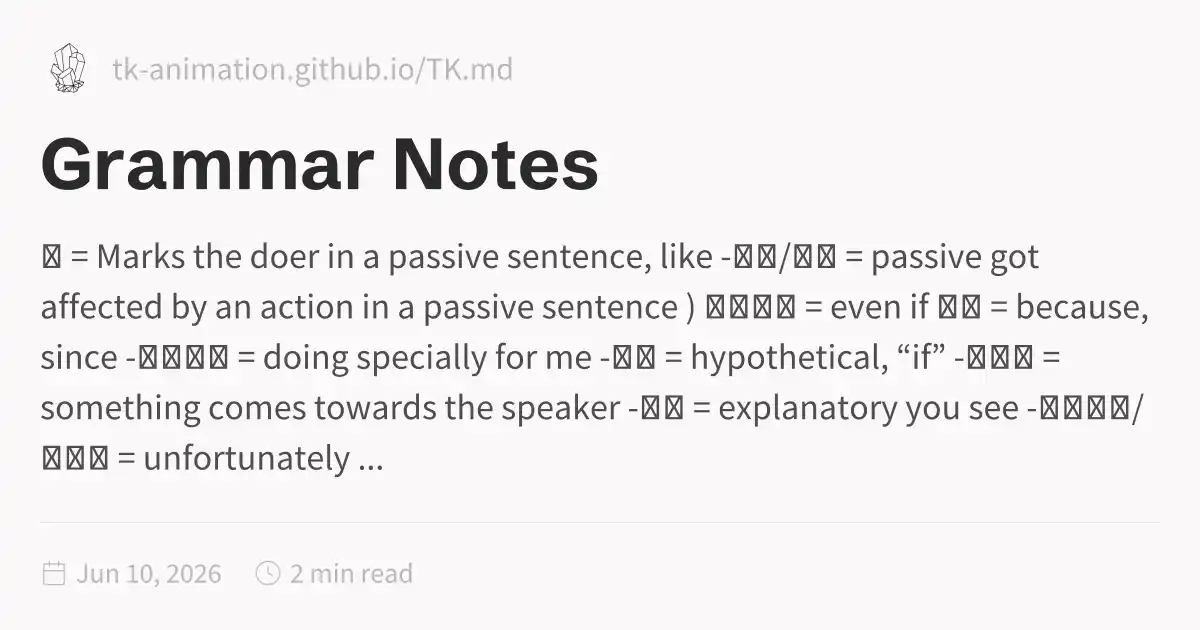
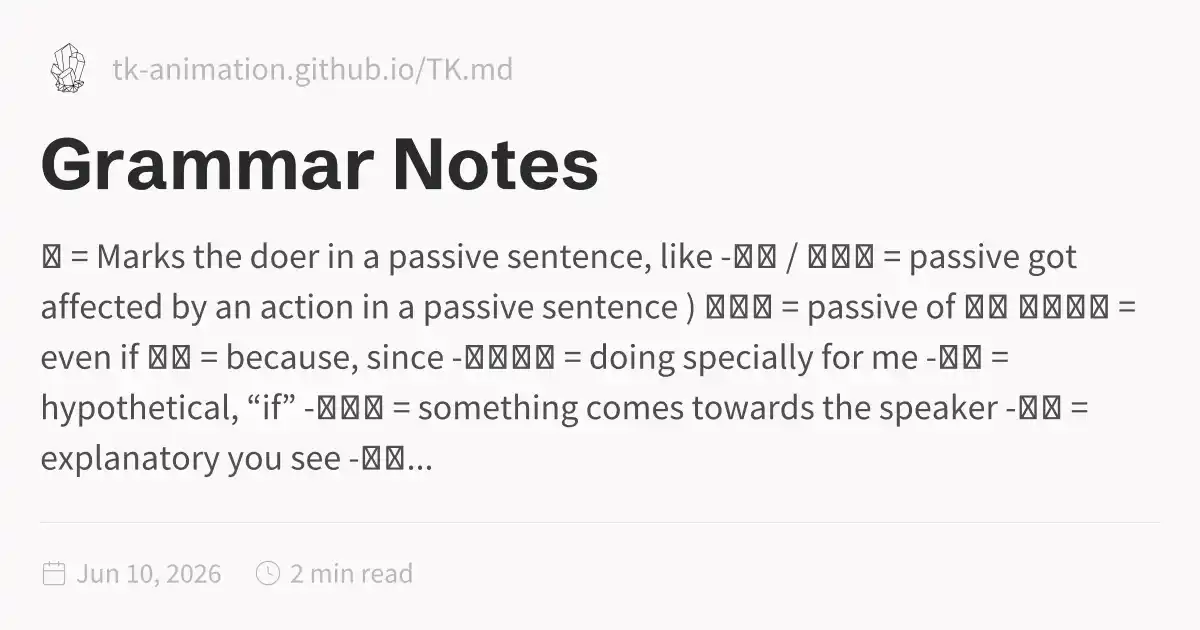
Deploy static Quartz site

Changed region(s): [[0.0308, 0.5429, 0.9558, 0.754], [0.6475, 0.3619, 0.9558, 0.5127]]

diff --git a/personal-notes/grammar-notes.html b/personal-notes/grammar-notes.html
@@ -1,7 +1,8 @@
 <!DOCTYPE html>
-<html lang="en" dir="ltr"><head><title>Grammar Notes</title><meta charset="utf-8"/><link rel="preload" href="../index-47d9ba67.css" as="style"/><link rel="preload" href="../prescript-2bfc6315.js" as="script"/><link rel="preconnect" href="https://fonts.googleapis.com"/><link rel="preconnect" href="https://fonts.gstatic.com"/><link rel="stylesheet" href="https://fonts.googleapis.com/css2?family=Schibsted Grotesk:wght@400;700&amp;family=Source Sans Pro:ital,wght@0,400;0,600;1,400;1,600&amp;family=IBM Plex Mono:wght@400;600&amp;display=swap"/><link rel="preconnect" href="https://cdnjs.cloudflare.com" crossorigin="anonymous"/><meta name="viewport" content="width=device-width, initial-scale=1.0"/><meta name="og:site_name" content="TK.md"/><meta property="og:title" content="Grammar Notes"/><meta property="og:type" content="website"/><meta name="twitter:card" content="summary_large_image"/><meta name="twitter:title" content="Grammar Notes"/><meta name="twitter:description" content="に = Marks the doer in a passive sentence, like -れた/れる = passive got affected by an action in a passive sentence ) としても = even if ので = because, since -てくれる = doing specially for me -たら = hypothetical, “if” -てくる = something comes towards the speaker -んだ = explanatory you see -てしまう/ちゃう = unfortunately ..."/><meta property="og:description" content="に = Marks the doer in a passive sentence, like -れた/れる = passive got affected by an action in a passive sentence ) としても = even if ので = because, since -てくれる = doing specially for me -たら = hypothetical, “if” -てくる = something comes towards the speaker -んだ = explanatory you see -てしまう/ちゃう = unfortunately ..."/><meta property="og:image:alt" content="に = Marks the doer in a passive sentence, like -れた/れる = passive got affected by an action in a passive sentence ) としても = even if ので = because, since -てくれる = doing specially for me -たら = hypothetical, “if” -てくる = something comes towards the speaker -んだ = explanatory you see -てしまう/ちゃう = unfortunately ..."/><meta property="twitter:domain" content="tk-animation.github.io/TK.md"/><meta property="og:url" content="https://tk-animation.github.io/TK.md/personal-notes/grammar-notes"/><meta property="twitter:url" content="https://tk-animation.github.io/TK.md/personal-notes/grammar-notes"/><link rel="icon" href="../static/icon.png"/><meta name="description" content="に = Marks the doer in a passive sentence, like -れた/れる = passive got affected by an action in a passive sentence ) としても = even if ので = because, since -てくれる = doing specially for me -たら = hypothetical, “if” -てくる = something comes towards the speaker -んだ = explanatory you see -てしまう/ちゃう = unfortunately ..."/><meta name="generator" content="Quartz"/><link href="../index-47d9ba67.css" rel="stylesheet" type="text/css" data-persist="true"/><link href="../component-735924e0.css" rel="stylesheet" type="text/css" data-persist="true"/><link href="../component-589c1cea.css" rel="stylesheet" type="text/css" data-persist="true"/><link href="../component-bbc3f7c0.css" rel="stylesheet" type="text/css" data-persist="true"/><link href="../component-2911f5d1.css" rel="stylesheet" type="text/css" data-persist="true"/><link href="../component-e427079e.css" rel="stylesheet" type="text/css" data-persist="true"/><link href="../component-53b25b2b.css" rel="stylesheet" type="text/css" data-persist="true"/><link href="../component-c93c6a44.css" rel="stylesheet" type="text/css" data-persist="true"/><link href="../component-8a06014f.css" rel="stylesheet" type="text/css" data-persist="true"/><link href="../component-77d6a441.css" rel="stylesheet" type="text/css" data-persist="true"/><link href="../component-6ee21cee.css" rel="stylesheet" type="text/css" data-persist="true"/><link href="../component-1ea6ad18.css" rel="stylesheet" type="text/css" data-persist="true"/><link href="../component-34bdfded.css" rel="stylesheet" type="text/css" data-persist="true"/><link href="../component-788c9ca3.css" rel="stylesheet" type="text/css" data-persist="true"/><link href="../component-642859cd.css" rel="stylesheet" type="text/css" data-persist="true"/><link href="../component-4abc06bd.css" rel="stylesheet" type="text/css" data-persist="true"/><link href="../component-274a3dfe.css" rel="stylesheet" type="text/css" data-persist="true"/><link href="../component-94cb6c84.css" rel="stylesheet" type="text/css" data-persist="true"/><link href="../component-58d5ff56.css" rel="stylesheet" type="text/css" data-persist="true"/><link href="../component-9f9b2774.css" rel="stylesheet" type="text/css" data-persist="true"/><link href="../component-7262b5a7.css" rel="stylesheet" type="text/css" data-persist="true"/><link href="../static/resource-style-54175ada.css" rel="stylesheet" type="text/css" data-persist="true"/><link href="../static/resource-style-a5c806d2.css" rel="stylesheet" type="text/css" data-persist="true"/><link href="../static/resource-style-6bd36952.css" rel="stylesheet" type="text/css" data-persist="true"/><link href="../static/resource-style-9857b007.css" rel="stylesheet" type="text/css" data-persist="true"/><link href="../static/resource-style-d3a1a224.css" rel="stylesheet" type="text/css" data-persist="true"/><link href="https://cdn.jsdelivr.net/npm/katex@0.16.11/dist/katex.min.css" rel="stylesheet" type="text/css" data-persist="true"/><script src="../prescript-2bfc6315.js" type="application/javascript" data-persist="true"></script><script type="application/javascript" data-persist="true">const fetchData = fetch("../static/contentIndex.json").then(data => data.json())</script><link rel="preconnect" href="https://fonts.googleapis.com"/><link rel="preconnect" href="https://fonts.gstatic.com" crossorigin="anonymous"/><link rel="stylesheet" href="https://fonts.googleapis.com/css2?family=Schibsted%20Grotesk%3Awght%40400%3B700&amp;family=Source%20Sans%20Pro%3Aital%2Cwght%400%2C400%3B0%2C600%3B1%2C400%3B1%2C600&amp;family=IBM%20Plex%20Mono%3Awght%40400%3B600&amp;display=swap"/><meta property="og:image:width" content="1200"/><meta property="og:image:height" content="630"/><meta property="og:image" content="https://tk-animation.github.io/TK.md/personal-notes/grammar-notes-og-image.webp"/><meta property="og:image:url" content="https://tk-animation.github.io/TK.md/personal-notes/grammar-notes-og-image.webp"/><meta name="twitter:image" content="https://tk-animation.github.io/TK.md/personal-notes/grammar-notes-og-image.webp"/><meta property="og:image:type" content="image/webp"/></head><body data-slug="personal-notes/grammar-notes" data-basepath="/TK.md"><div id="quartz-root" class="page" data-frame="default"><div id="quartz-body"><div class="left sidebar"><h2 class="page-title"><a href="..">TK.md</a></h2><div class="mobile-only"><div class="spacer"></div></div><div class="flex-component" style="flex-direction: row; flex-wrap: nowrap; gap: 0.5rem;"><div style="flex-grow: 1; flex-shrink: 1; flex-basis: auto; order: 0; align-self: center; justify-self: center;"><div class="search"><button class="search-button" aria-label="Search" aria-expanded="false"><svg role="img" xmlns="http://www.w3.org/2000/svg" viewBox="0 0 19.9 19.7"><title>Search</title><g class="search-path" fill="none"><path stroke-linecap="square" d="M18.5 18.3l-5.4-5.4"></path><circle cx="8" cy="8" r="7"></circle></g></svg><p>Search</p></button><div class="search-container"><div class="search-space"><input autocomplete="off" class="search-bar" name="search" type="text" aria-label="Search for something..." placeholder="Search for something..."/><div class="search-layout" data-preview="true" data-field-priority="[&quot;title&quot;,&quot;content&quot;,&quot;tags&quot;]"></div></div></div></div></div><div style="flex-grow: 0; flex-shrink: 1; flex-basis: auto; order: 0; align-self: center; justify-self: center;"><button class="darkmode" aria-label="Dark mode"><svg xmlns="http://www.w3.org/2000/svg" xmlns:xlink="http://www.w3.org/1999/xlink" version="1.1" class="dayIcon" x="0px" y="0px" viewBox="0 0 35 35" style="enable-background:new 0 0 35 35" xml:space="preserve" aria-label="Dark mode"><title>Dark mode</title><path d="M6,17.5C6,16.672,5.328,16,4.5,16h-3C0.672,16,0,16.672,0,17.5    S0.672,19,1.5,19h3C5.328,19,6,18.328,6,17.5z M7.5,26c-0.414,0-0.789,0.168-1.061,0.439l-2,2C4.168,28.711,4,29.086,4,29.5    C4,30.328,4.671,31,5.5,31c0.414,0,0.789-0.168,1.06-0.44l2-2C8.832,28.289,9,27.914,9,27.5C9,26.672,8.329,26,7.5,26z M17.5,6    C18.329,6,19,5.328,19,4.5v-3C19,0.672,18.329,0,17.5,0S16,0.672,16,1.5v3C16,5.328,16.671,6,17.5,6z M27.5,9    c0.414,0,0.789-0.168,1.06-0.439l2-2C30.832,6.289,31,5.914,31,5.5C31,4.672,30.329,4,29.5,4c-0.414,0-0.789,0.168-1.061,0.44    l-2,2C26.168,6.711,26,7.086,26,7.5C26,8.328,26.671,9,27.5,9z M6.439,8.561C6.711,8.832,7.086,9,7.5,9C8.328,9,9,8.328,9,7.5    c0-0.414-0.168-0.789-0.439-1.061l-2-2C6.289,4.168,5.914,4,5.5,4C4.672,4,4,4.672,4,5.5c0,0.414,0.168,0.789,0.439,1.06    L6.439,8.561z M33.5,16h-3c-0.828,0-1.5,0.672-1.5,1.5s0.672,1.5,1.5,1.5h3c0.828,0,1.5-0.672,1.5-1.5S34.328,16,33.5,16z     M28.561,26.439C28.289,26.168,27.914,26,27.5,26c-0.828,0-1.5,0.672-1.5,1.5c0,0.414,0.168,0.789,0.439,1.06l2,2    C28.711,30.832,29.086,31,29.5,31c0.828,0,1.5-0.672,1.5-1.5c0-0.414-0.168-0.789-0.439-1.061L28.561,26.439z M17.5,29    c-0.829,0-1.5,0.672-1.5,1.5v3c0,0.828,0.671,1.5,1.5,1.5s1.5-0.672,1.5-1.5v-3C19,29.672,18.329,29,17.5,29z M17.5,7    C11.71,7,7,11.71,7,17.5S11.71,28,17.5,28S28,23.29,28,17.5S23.29,7,17.5,7z M17.5,25c-4.136,0-7.5-3.364-7.5-7.5    c0-4.136,3.364-7.5,7.5-7.5c4.136,0,7.5,3.364,7.5,7.5C25,21.636,21.636,25,17.5,25z"></path></svg><svg xmlns="http://www.w3.org/2000/svg" xmlns:xlink="http://www.w3.org/1999/xlink" version="1.1" class="nightIcon" x="0px" y="0px" viewBox="0 0 100 100" style="enable-background:new 0 0 100 100" xml:space="preserve" aria-label="Light mode"><title>Light mode</title><path d="M96.76,66.458c-0.853-0.852-2.15-1.064-3.23-0.534c-6.063,2.991-12.858,4.571-19.655,4.571  C62.022,70.495,50.88,65.88,42.5,57.5C29.043,44.043,25.658,23.536,34.076,6.47c0.532-1.08,0.318-2.379-0.534-3.23  c-0.851-0.852-2.15-1.064-3.23-0.534c-4.918,2.427-9.375,5.619-13.246,9.491c-9.447,9.447-14.65,22.008-14.65,35.369  c0,13.36,5.203,25.921,14.65,35.368s22.008,14.65,35.368,14.65c13.361,0,25.921-5.203,35.369-14.65  c3.872-3.871,7.064-8.328,9.491-13.246C97.826,68.608,97.611,67.309,96.76,66.458z"></path></svg></button></div><div style="flex-grow: 0; flex-shrink: 1; flex-basis: auto; order: 0; align-self: center; justify-self: center;"><button class="readermode" aria-label="Reader mode"><svg xmlns="http://www.w3.org/2000/svg" xmlns:xlink="http://www.w3.org/1999/xlink" version="1.1" class="readerIcon" fill="currentColor" stroke="currentColor" stroke-width="0.2" stroke-linecap="round" stroke-linejoin="round" width="64px" height="64px" viewBox="0 0 24 24" aria-label="Reader mode"><title>Reader mode</title><g transform="translate(-1.8, -1.8) scale(1.15, 1.2)"><path d="M8.9891247,2.5 C10.1384702,2.5 11.2209868,2.96705384 12.0049645,3.76669482 C12.7883914,2.96705384 13.8709081,2.5 15.0202536,2.5 L18.7549359,2.5 C19.1691495,2.5 19.5049359,2.83578644 19.5049359,3.25 L19.5046891,4.004 L21.2546891,4.00457396 C21.6343849,4.00457396 21.9481801,4.28672784 21.9978425,4.6528034 L22.0046891,4.75457396 L22.0046891,20.25 C22.0046891,20.6296958 21.7225353,20.943491 21.3564597,20.9931534 L21.2546891,21 L2.75468914,21 C2.37499337,21 2.06119817,20.7178461 2.01153575,20.3517706 L2.00468914,20.25 L2.00468914,4.75457396 C2.00468914,4.37487819 2.28684302,4.061083 2.65291858,4.01142057 L2.75468914,4.00457396 L4.50368914,4.004 L4.50444233,3.25 C4.50444233,2.87030423 4.78659621,2.55650904 5.15267177,2.50684662 L5.25444233,2.5 L8.9891247,2.5 Z M4.50368914,5.504 L3.50468914,5.504 L3.50468914,19.5 L10.9478955,19.4998273 C10.4513189,18.9207296 9.73864328,18.5588115 8.96709342,18.5065584 L8.77307039,18.5 L5.25444233,18.5 C4.87474657,18.5 4.56095137,18.2178461 4.51128895,17.8517706 L4.50444233,17.75 L4.50368914,5.504 Z M19.5049359,17.75 C19.5049359,18.1642136 19.1691495,18.5 18.7549359,18.5 L15.2363079,18.5 C14.3910149,18.5 13.5994408,18.8724714 13.0614828,19.4998273 L20.5046891,19.5 L20.5046891,5.504 L19.5046891,5.504 L19.5049359,17.75 Z M18.0059359,3.999 L15.0202536,4 L14.8259077,4.00692283 C13.9889509,4.06666544 13.2254227,4.50975805 12.7549359,5.212 L12.7549359,17.777 L12.7782651,17.7601316 C13.4923805,17.2719483 14.3447024,17 15.2363079,17 L18.0059359,16.999 L18.0056891,4.798 L18.0033792,4.75457396 L18.0056891,4.71 L18.0059359,3.999 Z M8.9891247,4 L6.00368914,3.999 L6.00599909,4.75457396 L6.00599909,4.75457396 L6.00368914,4.783 L6.00368914,16.999 L8.77307039,17 C9.57551536,17 10.3461406,17.2202781 11.0128313,17.6202194 L11.2536891,17.776 L11.2536891,5.211 C10.8200889,4.56369974 10.1361548,4.13636104 9.37521067,4.02745763 L9.18347055,4.00692283 L8.9891247,4 Z"></path></g></svg></button></div></div><div class="explorer nav-files-container" data-behavior="link" data-collapsed="collapsed" data-savestate="true" data-data-fns="{&quot;order&quot;:[&quot;filter&quot;,&quot;map&quot;,&quot;sort&quot;],&quot;sortFn&quot;:&quot;(a2, b2) => {\r\n    if (!a2.isFolder &amp;&amp; !b2.isFolder || a2.isFolder &amp;&amp; b2.isFolder) {\r\n      return (a2.displayName || \&quot;\&quot;).localeCompare(b2.displayName || \&quot;\&quot;, void 0, {\r\n        numeric: true,\r\n        sensitivity: \&quot;base\&quot;\r\n      });\r\n    }\r\n    if (!a2.isFolder &amp;&amp; b2.isFolder) {\r\n      return 1;\r\n    }\r\n    return -1;\r\n  }&quot;,&quot;filterFn&quot;:&quot;(node) => node.slugSegment !== \&quot;tags\&quot;&quot;,&quot;mapFn&quot;:&quot;(node) => {\r\n    return node;\r\n  }&quot;}"><button type="button" class="explorer-toggle mobile-explorer hide-until-loaded" data-mobile="true" aria-controls="explorer-0" aria-label="Explorer"><svg xmlns="http://www.w3.org/2000/svg" width="24" height="24" viewBox="0 0 24 24" stroke-width="2" stroke-linecap="round" stroke-linejoin="round" class="lucide-menu"><line x1="4" x2="20" y1="12" y2="12"></line><line x1="4" x2="20" y1="6" y2="6"></line><line x1="4" x2="20" y1="18" y2="18"></line></svg></button><button type="button" class="title-button explorer-toggle desktop-explorer" data-mobile="false" aria-expanded="true"><h2>Explorer</h2><svg xmlns="http://www.w3.org/2000/svg" width="14" height="14" viewBox="5 8 14 8" fill="none" stroke="currentColor" stroke-width="2" stroke-linecap="round" stroke-linejoin="round" class="fold"><polyline points="6 9 12 15 18 9"></polyline></svg></button><div id="explorer-0" class="explorer-content" aria-expanded="false" role="group"><ul class="explorer-ul overflow" id="list-0"><li class="overflow-end"></li></ul></div><template id="template-file"><li><a href="#" class="nav-file-title tree-item-self"></a></li></template><template id="template-folder"><li><div class="folder-container nav-folder-title tree-item-self"><svg xmlns="http://www.w3.org/2000/svg" width="12" height="12" viewBox="5 8 14 8" fill="none" stroke="currentColor" stroke-width="2" stroke-linecap="round" stroke-linejoin="round" class="folder-icon nav-folder-collapse-indicator collapse-icon"><polyline points="6 9 12 15 18 9"></polyline></svg><div><button class="folder-button"><span class="folder-title"></span></button></div></div><div class="folder-outer"><ul class="content tree-item-children"></ul></div></li></template></div></div><div class="center"><div class="page-header"><div class="popover-hint"><nav class="breadcrumb-container" aria-label="breadcrumbs"><div class="breadcrumb-element"><a href="../">Home</a><p> ❯ </p></div><div class="breadcrumb-element"><a href="../personal-notes/">Personal Notes</a><p> ❯ </p></div><div class="breadcrumb-element"><a href>Grammar Notes</a></div></nav><h1 class="article-title">Grammar Notes</h1><p show-comma="true" class="content-meta"><time datetime="2026-06-11T02:24:52.000Z">Jun 10, 2026</time><span>2 min read</span></p></div></div><article class="popover-hint"><div class="markdown-preview-view markdown-rendered"><p>に = Marks the doer in a passive sentence, like</p>
-<p>-れた/れる = passive<br/>
-got affected by an action in a passive sentence  )</p>
+<html lang="en" dir="ltr"><head><title>Grammar Notes</title><meta charset="utf-8"/><link rel="preload" href="../index-47d9ba67.css" as="style"/><link rel="preload" href="../prescript-2bfc6315.js" as="script"/><link rel="preconnect" href="https://fonts.googleapis.com"/><link rel="preconnect" href="https://fonts.gstatic.com"/><link rel="stylesheet" href="https://fonts.googleapis.com/css2?family=Schibsted Grotesk:wght@400;700&amp;family=Source Sans Pro:ital,wght@0,400;0,600;1,400;1,600&amp;family=IBM Plex Mono:wght@400;600&amp;display=swap"/><link rel="preconnect" href="https://cdnjs.cloudflare.com" crossorigin="anonymous"/><meta name="viewport" content="width=device-width, initial-scale=1.0"/><meta name="og:site_name" content="TK.md"/><meta property="og:title" content="Grammar Notes"/><meta property="og:type" content="website"/><meta name="twitter:card" content="summary_large_image"/><meta name="twitter:title" content="Grammar Notes"/><meta name="twitter:description" content="に = Marks the doer in a passive sentence, like -れる / られる = passive got affected by an action in a passive sentence ) される = passive of する としても = even if ので = because, since -てくれる = doing specially for me -たら = hypothetical, “if” -てくる = something comes towards the speaker -んだ = explanatory you see -てし..."/><meta property="og:description" content="に = Marks the doer in a passive sentence, like -れる / られる = passive got affected by an action in a passive sentence ) される = passive of する としても = even if ので = because, since -てくれる = doing specially for me -たら = hypothetical, “if” -てくる = something comes towards the speaker -んだ = explanatory you see -てし..."/><meta property="og:image:alt" content="に = Marks the doer in a passive sentence, like -れる / られる = passive got affected by an action in a passive sentence ) される = passive of する としても = even if ので = because, since -てくれる = doing specially for me -たら = hypothetical, “if” -てくる = something comes towards the speaker -んだ = explanatory you see -てし..."/><meta property="twitter:domain" content="tk-animation.github.io/TK.md"/><meta property="og:url" content="https://tk-animation.github.io/TK.md/personal-notes/grammar-notes"/><meta property="twitter:url" content="https://tk-animation.github.io/TK.md/personal-notes/grammar-notes"/><link rel="icon" href="../static/icon.png"/><meta name="description" content="に = Marks the doer in a passive sentence, like -れる / られる = passive got affected by an action in a passive sentence ) される = passive of する としても = even if ので = because, since -てくれる = doing specially for me -たら = hypothetical, “if” -てくる = something comes towards the speaker -んだ = explanatory you see -てし..."/><meta name="generator" content="Quartz"/><link href="../index-47d9ba67.css" rel="stylesheet" type="text/css" data-persist="true"/><link href="../component-735924e0.css" rel="stylesheet" type="text/css" data-persist="true"/><link href="../component-589c1cea.css" rel="stylesheet" type="text/css" data-persist="true"/><link href="../component-bbc3f7c0.css" rel="stylesheet" type="text/css" data-persist="true"/><link href="../component-2911f5d1.css" rel="stylesheet" type="text/css" data-persist="true"/><link href="../component-e427079e.css" rel="stylesheet" type="text/css" data-persist="true"/><link href="../component-53b25b2b.css" rel="stylesheet" type="text/css" data-persist="true"/><link href="../component-c93c6a44.css" rel="stylesheet" type="text/css" data-persist="true"/><link href="../component-8a06014f.css" rel="stylesheet" type="text/css" data-persist="true"/><link href="../component-77d6a441.css" rel="stylesheet" type="text/css" data-persist="true"/><link href="../component-6ee21cee.css" rel="stylesheet" type="text/css" data-persist="true"/><link href="../component-1ea6ad18.css" rel="stylesheet" type="text/css" data-persist="true"/><link href="../component-34bdfded.css" rel="stylesheet" type="text/css" data-persist="true"/><link href="../component-788c9ca3.css" rel="stylesheet" type="text/css" data-persist="true"/><link href="../component-642859cd.css" rel="stylesheet" type="text/css" data-persist="true"/><link href="../component-4abc06bd.css" rel="stylesheet" type="text/css" data-persist="true"/><link href="../component-274a3dfe.css" rel="stylesheet" type="text/css" data-persist="true"/><link href="../component-94cb6c84.css" rel="stylesheet" type="text/css" data-persist="true"/><link href="../component-58d5ff56.css" rel="stylesheet" type="text/css" data-persist="true"/><link href="../component-9f9b2774.css" rel="stylesheet" type="text/css" data-persist="true"/><link href="../component-7262b5a7.css" rel="stylesheet" type="text/css" data-persist="true"/><link href="../static/resource-style-54175ada.css" rel="stylesheet" type="text/css" data-persist="true"/><link href="../static/resource-style-a5c806d2.css" rel="stylesheet" type="text/css" data-persist="true"/><link href="../static/resource-style-6bd36952.css" rel="stylesheet" type="text/css" data-persist="true"/><link href="../static/resource-style-9857b007.css" rel="stylesheet" type="text/css" data-persist="true"/><link href="../static/resource-style-d3a1a224.css" rel="stylesheet" type="text/css" data-persist="true"/><link href="https://cdn.jsdelivr.net/npm/katex@0.16.11/dist/katex.min.css" rel="stylesheet" type="text/css" data-persist="true"/><script src="../prescript-2bfc6315.js" type="application/javascript" data-persist="true"></script><script type="application/javascript" data-persist="true">const fetchData = fetch("../static/contentIndex.json").then(data => data.json())</script><link rel="preconnect" href="https://fonts.googleapis.com"/><link rel="preconnect" href="https://fonts.gstatic.com" crossorigin="anonymous"/><link rel="stylesheet" href="https://fonts.googleapis.com/css2?family=Schibsted%20Grotesk%3Awght%40400%3B700&amp;family=Source%20Sans%20Pro%3Aital%2Cwght%400%2C400%3B0%2C600%3B1%2C400%3B1%2C600&amp;family=IBM%20Plex%20Mono%3Awght%40400%3B600&amp;display=swap"/><meta property="og:image:width" content="1200"/><meta property="og:image:height" content="630"/><meta property="og:image" content="https://tk-animation.github.io/TK.md/personal-notes/grammar-notes-og-image.webp"/><meta property="og:image:url" content="https://tk-animation.github.io/TK.md/personal-notes/grammar-notes-og-image.webp"/><meta name="twitter:image" content="https://tk-animation.github.io/TK.md/personal-notes/grammar-notes-og-image.webp"/><meta property="og:image:type" content="image/webp"/></head><body data-slug="personal-notes/grammar-notes" data-basepath="/TK.md"><div id="quartz-root" class="page" data-frame="default"><div id="quartz-body"><div class="left sidebar"><h2 class="page-title"><a href="..">TK.md</a></h2><div class="mobile-only"><div class="spacer"></div></div><div class="flex-component" style="flex-direction: row; flex-wrap: nowrap; gap: 0.5rem;"><div style="flex-grow: 1; flex-shrink: 1; flex-basis: auto; order: 0; align-self: center; justify-self: center;"><div class="search"><button class="search-button" aria-label="Search" aria-expanded="false"><svg role="img" xmlns="http://www.w3.org/2000/svg" viewBox="0 0 19.9 19.7"><title>Search</title><g class="search-path" fill="none"><path stroke-linecap="square" d="M18.5 18.3l-5.4-5.4"></path><circle cx="8" cy="8" r="7"></circle></g></svg><p>Search</p></button><div class="search-container"><div class="search-space"><input autocomplete="off" class="search-bar" name="search" type="text" aria-label="Search for something..." placeholder="Search for something..."/><div class="search-layout" data-preview="true" data-field-priority="[&quot;title&quot;,&quot;content&quot;,&quot;tags&quot;]"></div></div></div></div></div><div style="flex-grow: 0; flex-shrink: 1; flex-basis: auto; order: 0; align-self: center; justify-self: center;"><button class="darkmode" aria-label="Dark mode"><svg xmlns="http://www.w3.org/2000/svg" xmlns:xlink="http://www.w3.org/1999/xlink" version="1.1" class="dayIcon" x="0px" y="0px" viewBox="0 0 35 35" style="enable-background:new 0 0 35 35" xml:space="preserve" aria-label="Dark mode"><title>Dark mode</title><path d="M6,17.5C6,16.672,5.328,16,4.5,16h-3C0.672,16,0,16.672,0,17.5    S0.672,19,1.5,19h3C5.328,19,6,18.328,6,17.5z M7.5,26c-0.414,0-0.789,0.168-1.061,0.439l-2,2C4.168,28.711,4,29.086,4,29.5    C4,30.328,4.671,31,5.5,31c0.414,0,0.789-0.168,1.06-0.44l2-2C8.832,28.289,9,27.914,9,27.5C9,26.672,8.329,26,7.5,26z M17.5,6    C18.329,6,19,5.328,19,4.5v-3C19,0.672,18.329,0,17.5,0S16,0.672,16,1.5v3C16,5.328,16.671,6,17.5,6z M27.5,9    c0.414,0,0.789-0.168,1.06-0.439l2-2C30.832,6.289,31,5.914,31,5.5C31,4.672,30.329,4,29.5,4c-0.414,0-0.789,0.168-1.061,0.44    l-2,2C26.168,6.711,26,7.086,26,7.5C26,8.328,26.671,9,27.5,9z M6.439,8.561C6.711,8.832,7.086,9,7.5,9C8.328,9,9,8.328,9,7.5    c0-0.414-0.168-0.789-0.439-1.061l-2-2C6.289,4.168,5.914,4,5.5,4C4.672,4,4,4.672,4,5.5c0,0.414,0.168,0.789,0.439,1.06    L6.439,8.561z M33.5,16h-3c-0.828,0-1.5,0.672-1.5,1.5s0.672,1.5,1.5,1.5h3c0.828,0,1.5-0.672,1.5-1.5S34.328,16,33.5,16z     M28.561,26.439C28.289,26.168,27.914,26,27.5,26c-0.828,0-1.5,0.672-1.5,1.5c0,0.414,0.168,0.789,0.439,1.06l2,2    C28.711,30.832,29.086,31,29.5,31c0.828,0,1.5-0.672,1.5-1.5c0-0.414-0.168-0.789-0.439-1.061L28.561,26.439z M17.5,29    c-0.829,0-1.5,0.672-1.5,1.5v3c0,0.828,0.671,1.5,1.5,1.5s1.5-0.672,1.5-1.5v-3C19,29.672,18.329,29,17.5,29z M17.5,7    C11.71,7,7,11.71,7,17.5S11.71,28,17.5,28S28,23.29,28,17.5S23.29,7,17.5,7z M17.5,25c-4.136,0-7.5-3.364-7.5-7.5    c0-4.136,3.364-7.5,7.5-7.5c4.136,0,7.5,3.364,7.5,7.5C25,21.636,21.636,25,17.5,25z"></path></svg><svg xmlns="http://www.w3.org/2000/svg" xmlns:xlink="http://www.w3.org/1999/xlink" version="1.1" class="nightIcon" x="0px" y="0px" viewBox="0 0 100 100" style="enable-background:new 0 0 100 100" xml:space="preserve" aria-label="Light mode"><title>Light mode</title><path d="M96.76,66.458c-0.853-0.852-2.15-1.064-3.23-0.534c-6.063,2.991-12.858,4.571-19.655,4.571  C62.022,70.495,50.88,65.88,42.5,57.5C29.043,44.043,25.658,23.536,34.076,6.47c0.532-1.08,0.318-2.379-0.534-3.23  c-0.851-0.852-2.15-1.064-3.23-0.534c-4.918,2.427-9.375,5.619-13.246,9.491c-9.447,9.447-14.65,22.008-14.65,35.369  c0,13.36,5.203,25.921,14.65,35.368s22.008,14.65,35.368,14.65c13.361,0,25.921-5.203,35.369-14.65  c3.872-3.871,7.064-8.328,9.491-13.246C97.826,68.608,97.611,67.309,96.76,66.458z"></path></svg></button></div><div style="flex-grow: 0; flex-shrink: 1; flex-basis: auto; order: 0; align-self: center; justify-self: center;"><button class="readermode" aria-label="Reader mode"><svg xmlns="http://www.w3.org/2000/svg" xmlns:xlink="http://www.w3.org/1999/xlink" version="1.1" class="readerIcon" fill="currentColor" stroke="currentColor" stroke-width="0.2" stroke-linecap="round" stroke-linejoin="round" width="64px" height="64px" viewBox="0 0 24 24" aria-label="Reader mode"><title>Reader mode</title><g transform="translate(-1.8, -1.8) scale(1.15, 1.2)"><path d="M8.9891247,2.5 C10.1384702,2.5 11.2209868,2.96705384 12.0049645,3.76669482 C12.7883914,2.96705384 13.8709081,2.5 15.0202536,2.5 L18.7549359,2.5 C19.1691495,2.5 19.5049359,2.83578644 19.5049359,3.25 L19.5046891,4.004 L21.2546891,4.00457396 C21.6343849,4.00457396 21.9481801,4.28672784 21.9978425,4.6528034 L22.0046891,4.75457396 L22.0046891,20.25 C22.0046891,20.6296958 21.7225353,20.943491 21.3564597,20.9931534 L21.2546891,21 L2.75468914,21 C2.37499337,21 2.06119817,20.7178461 2.01153575,20.3517706 L2.00468914,20.25 L2.00468914,4.75457396 C2.00468914,4.37487819 2.28684302,4.061083 2.65291858,4.01142057 L2.75468914,4.00457396 L4.50368914,4.004 L4.50444233,3.25 C4.50444233,2.87030423 4.78659621,2.55650904 5.15267177,2.50684662 L5.25444233,2.5 L8.9891247,2.5 Z M4.50368914,5.504 L3.50468914,5.504 L3.50468914,19.5 L10.9478955,19.4998273 C10.4513189,18.9207296 9.73864328,18.5588115 8.96709342,18.5065584 L8.77307039,18.5 L5.25444233,18.5 C4.87474657,18.5 4.56095137,18.2178461 4.51128895,17.8517706 L4.50444233,17.75 L4.50368914,5.504 Z M19.5049359,17.75 C19.5049359,18.1642136 19.1691495,18.5 18.7549359,18.5 L15.2363079,18.5 C14.3910149,18.5 13.5994408,18.8724714 13.0614828,19.4998273 L20.5046891,19.5 L20.5046891,5.504 L19.5046891,5.504 L19.5049359,17.75 Z M18.0059359,3.999 L15.0202536,4 L14.8259077,4.00692283 C13.9889509,4.06666544 13.2254227,4.50975805 12.7549359,5.212 L12.7549359,17.777 L12.7782651,17.7601316 C13.4923805,17.2719483 14.3447024,17 15.2363079,17 L18.0059359,16.999 L18.0056891,4.798 L18.0033792,4.75457396 L18.0056891,4.71 L18.0059359,3.999 Z M8.9891247,4 L6.00368914,3.999 L6.00599909,4.75457396 L6.00599909,4.75457396 L6.00368914,4.783 L6.00368914,16.999 L8.77307039,17 C9.57551536,17 10.3461406,17.2202781 11.0128313,17.6202194 L11.2536891,17.776 L11.2536891,5.211 C10.8200889,4.56369974 10.1361548,4.13636104 9.37521067,4.02745763 L9.18347055,4.00692283 L8.9891247,4 Z"></path></g></svg></button></div></div><div class="explorer nav-files-container" data-behavior="link" data-collapsed="collapsed" data-savestate="true" data-data-fns="{&quot;order&quot;:[&quot;filter&quot;,&quot;map&quot;,&quot;sort&quot;],&quot;sortFn&quot;:&quot;(a2, b2) => {\r\n    if (!a2.isFolder &amp;&amp; !b2.isFolder || a2.isFolder &amp;&amp; b2.isFolder) {\r\n      return (a2.displayName || \&quot;\&quot;).localeCompare(b2.displayName || \&quot;\&quot;, void 0, {\r\n        numeric: true,\r\n        sensitivity: \&quot;base\&quot;\r\n      });\r\n    }\r\n    if (!a2.isFolder &amp;&amp; b2.isFolder) {\r\n      return 1;\r\n    }\r\n    return -1;\r\n  }&quot;,&quot;filterFn&quot;:&quot;(node) => node.slugSegment !== \&quot;tags\&quot;&quot;,&quot;mapFn&quot;:&quot;(node) => {\r\n    return node;\r\n  }&quot;}"><button type="button" class="explorer-toggle mobile-explorer hide-until-loaded" data-mobile="true" aria-controls="explorer-0" aria-label="Explorer"><svg xmlns="http://www.w3.org/2000/svg" width="24" height="24" viewBox="0 0 24 24" stroke-width="2" stroke-linecap="round" stroke-linejoin="round" class="lucide-menu"><line x1="4" x2="20" y1="12" y2="12"></line><line x1="4" x2="20" y1="6" y2="6"></line><line x1="4" x2="20" y1="18" y2="18"></line></svg></button><button type="button" class="title-button explorer-toggle desktop-explorer" data-mobile="false" aria-expanded="true"><h2>Explorer</h2><svg xmlns="http://www.w3.org/2000/svg" width="14" height="14" viewBox="5 8 14 8" fill="none" stroke="currentColor" stroke-width="2" stroke-linecap="round" stroke-linejoin="round" class="fold"><polyline points="6 9 12 15 18 9"></polyline></svg></button><div id="explorer-0" class="explorer-content" aria-expanded="false" role="group"><ul class="explorer-ul overflow" id="list-0"><li class="overflow-end"></li></ul></div><template id="template-file"><li><a href="#" class="nav-file-title tree-item-self"></a></li></template><template id="template-folder"><li><div class="folder-container nav-folder-title tree-item-self"><svg xmlns="http://www.w3.org/2000/svg" width="12" height="12" viewBox="5 8 14 8" fill="none" stroke="currentColor" stroke-width="2" stroke-linecap="round" stroke-linejoin="round" class="folder-icon nav-folder-collapse-indicator collapse-icon"><polyline points="6 9 12 15 18 9"></polyline></svg><div><button class="folder-button"><span class="folder-title"></span></button></div></div><div class="folder-outer"><ul class="content tree-item-children"></ul></div></li></template></div></div><div class="center"><div class="page-header"><div class="popover-hint"><nav class="breadcrumb-container" aria-label="breadcrumbs"><div class="breadcrumb-element"><a href="../">Home</a><p> ❯ </p></div><div class="breadcrumb-element"><a href="../personal-notes/">Personal Notes</a><p> ❯ </p></div><div class="breadcrumb-element"><a href>Grammar Notes</a></div></nav><h1 class="article-title">Grammar Notes</h1><p show-comma="true" class="content-meta"><time datetime="2026-06-11T02:24:52.000Z">Jun 10, 2026</time><span>2 min read</span></p></div></div><article class="popover-hint"><div class="markdown-preview-view markdown-rendered"><p>に = Marks the doer in a passive sentence, like</p>
+<p>-れる / られる = passive<br/>
+got affected by an action in a passive sentence  )<br/>
+される = passive of する</p>
 <p>としても = even if</p>
 <p>ので = because, since</p>
 <p>-てくれる = doing specially for me</p>
@@ -34,7 +35,14 @@ for now / for the time being</p>
 <p>ながら = while doing<br/>
 -つつ = also while doing<br/>
 used to avoid repeating nagara in <a href="../化物語" class="internal internal-link alias" data-slug="化物語">化物語</a> arc 2</p>
-<p>-ってわけ/というわけ = it means that …</p></div></article><hr/><div class="page-footer"></div></div><div class="right sidebar"><div class="graph"><h3>Graph View</h3><div class="graph-outer"><div class="graph-container" data-cfg="{&quot;drag&quot;:true,&quot;zoom&quot;:true,&quot;depth&quot;:1,&quot;scale&quot;:1.1,&quot;repelForce&quot;:0.5,&quot;centerForce&quot;:0.3,&quot;linkDistance&quot;:30,&quot;fontSize&quot;:0.6,&quot;opacityScale&quot;:1,&quot;showTags&quot;:true,&quot;removeTags&quot;:[],&quot;focusOnHover&quot;:false,&quot;enableRadial&quot;:false}"></div><button class="global-graph-icon" aria-label="Global Graph"><svg version="1.1" xmlns="http://www.w3.org/2000/svg" xmlns:xlink="http://www.w3.org/1999/xlink" x="0px" y="0px" viewBox="0 0 55 55" fill="currentColor" xml:space="preserve"><path d="M49,0c-3.309,0-6,2.691-6,6c0,1.035,0.263,2.009,0.726,2.86l-9.829,9.829C32.542,17.634,30.846,17,29,17
+<p>-ってわけ/というわけ = it means that …</p>
+<p>なんだよ =<br/>
+な = noun/adjectival connector before のだ<br/>
+んだ = explanatory emphasis<br/>
+よ = telling/asserting to the listener</p>
+<p>-ずに = negative form in a more literary way</p>
+<p>-せる / させる = causative, make someone do/let someone do (based on context)</p>
+<p>-たり = do things like this</p></div></article><hr/><div class="page-footer"></div></div><div class="right sidebar"><div class="graph"><h3>Graph View</h3><div class="graph-outer"><div class="graph-container" data-cfg="{&quot;drag&quot;:true,&quot;zoom&quot;:true,&quot;depth&quot;:1,&quot;scale&quot;:1.1,&quot;repelForce&quot;:0.5,&quot;centerForce&quot;:0.3,&quot;linkDistance&quot;:30,&quot;fontSize&quot;:0.6,&quot;opacityScale&quot;:1,&quot;showTags&quot;:true,&quot;removeTags&quot;:[],&quot;focusOnHover&quot;:false,&quot;enableRadial&quot;:false}"></div><button class="global-graph-icon" aria-label="Global Graph"><svg version="1.1" xmlns="http://www.w3.org/2000/svg" xmlns:xlink="http://www.w3.org/1999/xlink" x="0px" y="0px" viewBox="0 0 55 55" fill="currentColor" xml:space="preserve"><path d="M49,0c-3.309,0-6,2.691-6,6c0,1.035,0.263,2.009,0.726,2.86l-9.829,9.829C32.542,17.634,30.846,17,29,17
                 s-3.542,0.634-4.898,1.688l-7.669-7.669C16.785,10.424,17,9.74,17,9c0-2.206-1.794-4-4-4S9,6.794,9,9s1.794,4,4,4
                 c0.74,0,1.424-0.215,2.019-0.567l7.669,7.669C21.634,21.458,21,23.154,21,25s0.634,3.542,1.688,4.897L10.024,42.562
                 C8.958,41.595,7.549,41,6,41c-3.309,0-6,2.691-6,6s2.691,6,6,6s6-2.691,6-6c0-1.035-0.263-2.009-0.726-2.86l12.829-12.829
